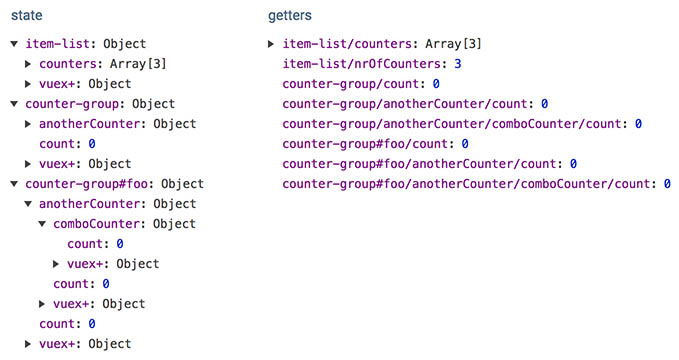
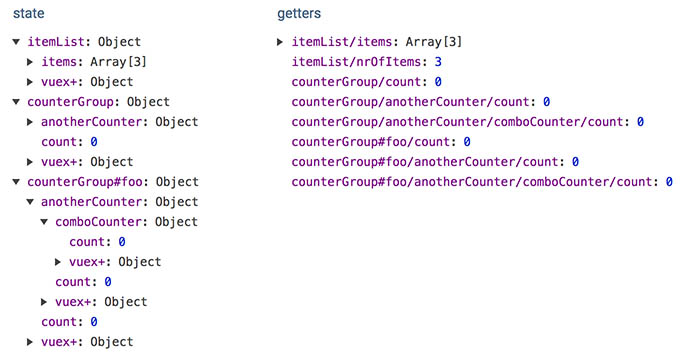
Updated to vuex+ v0.1.1

diff --git a/src/components/counter/another-counter/another-counter.vue b/src/components/counter/another-counter/another-counter.vue
@@ -4,8 +4,6 @@
 
   const { mapGetters, mapActions, mixins } = use('counter-group-store');
 
-  console.info('api', api);
-
   export default {
     mixins: [mixins.useStore],
     computed: {

diff --git a/README.md b/README.md
@@ -55,26 +55,26 @@ Components using the Vuex+ `addStore.mixin` gets two registered properties; `ins
 ### Instances in the main store
 Files ending with `-store.js` are considered to be top level stores used in [Vue components](https://vuejs.org/v2/guide/components.html), while files ending with `-substore.js` are considered to be included as modules in top level stores or as modules in substores.
 
-Here is an example of the state with two instance of `counter-group` - the base instance with no instance parameter and the `foo` instace. In the store they get registered as `counter-group` and `counter-group#foo`.
+Here is an example of the state with two instance of `counterGroup` - the base instance with no instance parameter and the `foo` instace. In the store they get registered as `counterGroup` and `counterGroup#foo`.
 ![state](./docs/state.jpg)
 
 ### Generated APIs
 Wrapping the vuex module exports in the Vuex+ `{store}` method, the stores become [namespaced](https://vuex.vuejs.org/en/modules.html) and get their own local API with magic strings under `module.api`.
 ```javascript
 import counterGroup from 'counter-group-store.js'
-console.log(counter.api);
+console.log(counterGroup.api);
 
 // =>
 
   {
     "get": {
-      "count": "counter-group/count"
+      "count": "counterGroup/count"
     },
     "act": {
-      "increase": "counter-group/increase"
+      "increase": "counterGroup/increase"
     },
     "mutate": {
-      "increase": "counter-group/increase"
+      "increase": "counterGroup/increase"
     },
     "anotherCounter": {...}
   }
@@ -93,21 +93,21 @@ console.log(api);
       "act": {...},
       "mutate": {...}
     },
-    "counter-group": {
+    "counterGroup": {
       "get": {
-        "count": "counter-group/count"
+        "count": "counterGroup/count"
       },
       "act": {...},
       "mutate": {...},
       "anotherCounter": {
         "get": {
-          "count": "counter-group/anotherCounter/count"
+          "count": "counterGroup/anotherCounter/count"
         },
         "act": {...},
         "mutate": {...},
         "comboCounter": {
           "get": {
-            "count": "counter-group/anotherCounter/comboCounter/count"
+            "count": "counterGroup/anotherCounter/comboCounter/count"
           },
           "act": {...},
           "mutate": {...}
@@ -121,7 +121,7 @@ console.log(api);
 Writing a module store is very similar to writing a normal [vuex module](https://vuex.vuejs.org/en/modules.html), except the file should end with `-store.js`.
 
 This is the general format:
-(Check out `./src/components/counter-group/counter-store.js` in the repo)
+(Check out `./src/components/counter-group/counter-group-store.js` in the repo)
 ```javascript
 // Import store wrapper from vuex+
 import { store } from 'vuex+';
@@ -268,15 +268,15 @@ const actions = {
 ```
 
 ### Get/Dispatch/Commit from vue component
-Example dispatch from vue component to counter-group instance "":
+Example dispatch from vue component to counterGroup instance "":
 (See `./src/app.vue` for an example)
 ```javascript
 this.$store.dispatch(api.counterGroup.act.increase);
 ```
 
-To dispatch to another instance, just replace the instance store name with the instance name. In this case, `counter-group#foo`:
+To dispatch to another instance, just replace the instance store name with the instance name. In this case, `counterGroup#foo`:
 ```javascript
-api.counterGroup.act.increase.replace('counter-group/', 'counter-group#foo/');
+api.counterGroup.act.increase.replace('counterGroup/', 'counterGroup#foo/');
 ```
 
 ### Writing tests
